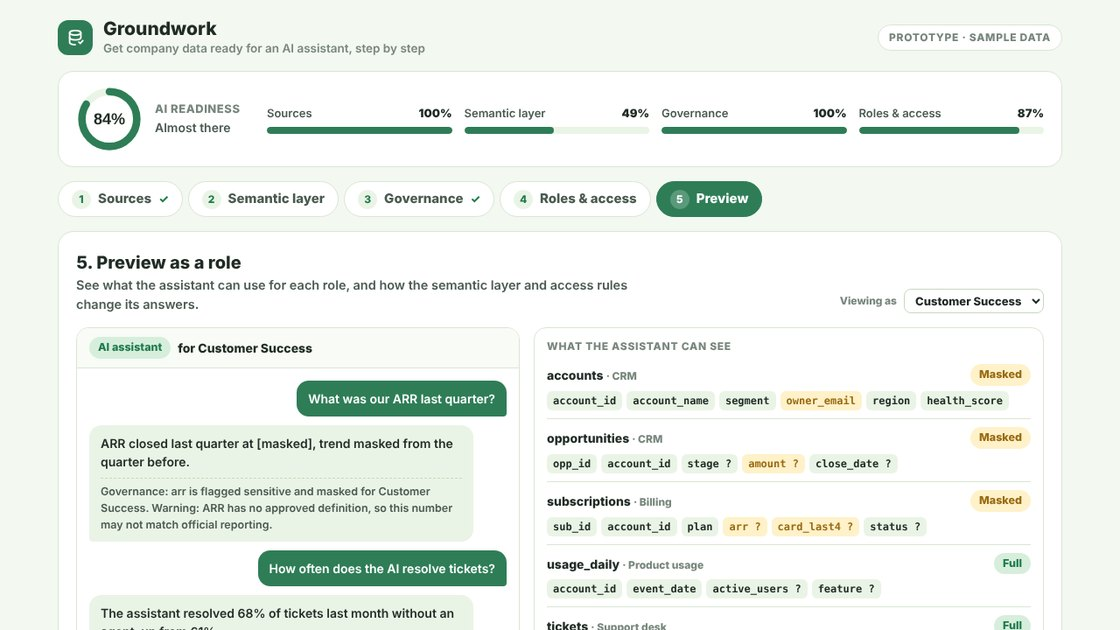
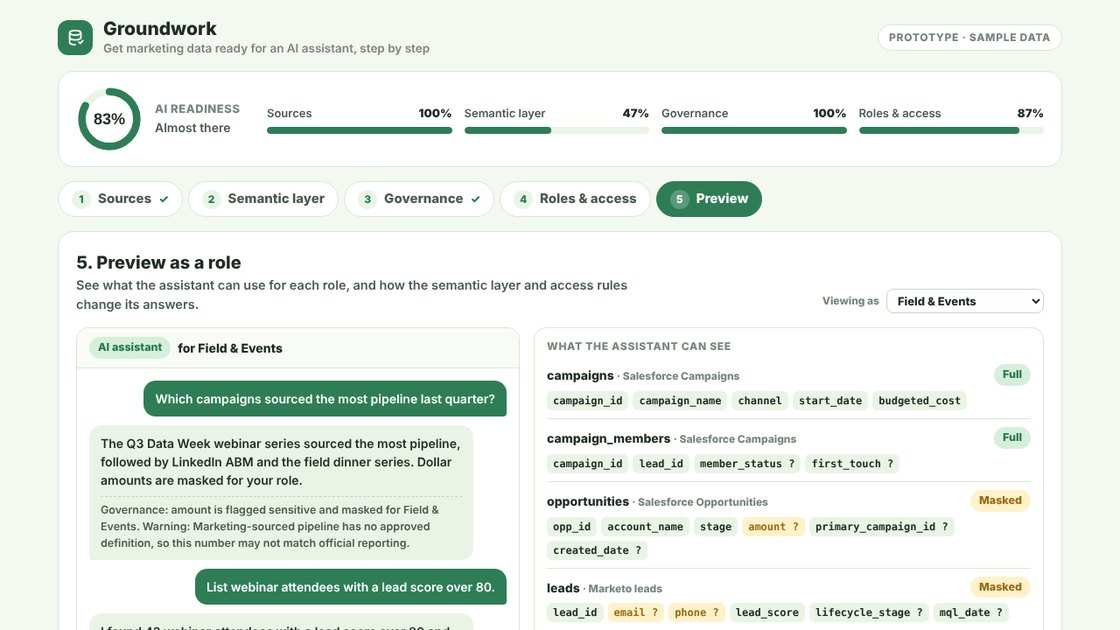
Groundwork: use marketing data for the example
Sample sources are now Salesforce campaigns and opportunities, Marketo
leads and activity, ad spend, web, events, and the marketing budget, with
marketing roles, metrics, and preview questions.

Claude-Session: https://claude.ai/code/session_012KZoca3tAZxyi3oCaJbwMw

diff --git a/data-readiness-prototype.html b/data-readiness-prototype.html
@@ -4,7 +4,7 @@
 <meta charset="utf-8">
 <meta name="viewport" content="width=device-width, initial-scale=1">
 <title>Groundwork | AI Data Readiness Prototype</title>
-<meta name="description" content="Prototype: get company data ready for an AI assistant. Prioritize sources, build a semantic layer, flag sensitive data, and set role-based access.">
+<meta name="description" content="Prototype: get marketing data ready for an AI assistant. Prioritize sources, build a semantic layer, flag sensitive data, and set role-based access.">
 <link rel="stylesheet" href="https://fonts.googleapis.com/css2?family=Nunito:wght@500;600;700;800&display=swap">
 <style>
 :root{
@@ -185,7 +185,7 @@ select.inline{border:1px solid var(--line-2);border-radius:8px;padding:4px 8px;b
   <header class="top">
     <div class="brand">
       <div class="logo" aria-hidden="true"><svg viewBox="0 0 24 24" fill="none" stroke="#fff" stroke-width="2" stroke-linecap="round" stroke-linejoin="round"><ellipse cx="12" cy="6" rx="7" ry="2.8"/><path d="M5 6v6c0 1.5 3.1 2.8 7 2.8s7-1.3 7-2.8V6"/><path d="M5 12v6c0 1.5 3.1 2.8 7 2.8"/><path d="M16.5 17.5l1.8 1.8 3.2-3.6"/></svg></div>
-      <div><h1>Groundwork</h1><p>Get company data ready for an AI assistant, step by step</p></div>
+      <div><h1>Groundwork</h1><p>Get marketing data ready for an AI assistant, step by step</p></div>
     </div>
     <span class="sample">Prototype · sample data</span>
   </header>
@@ -228,13 +228,13 @@ select.inline{border:1px solid var(--line-2);border-radius:8px;padding:4px 8px;b
   <!-- 3. Governance -->
   <section class="panel" id="p-gov" role="tabpanel" hidden>
     <div class="ph">
-      <div><h2>3. Flag sensitive data</h2><p>A scan suggests columns that hold personal, financial, or HR data. Confirm each flag. Sensitive columns are masked or hidden by role in the next step.</p></div>
+      <div><h2>3. Flag sensitive data</h2><p>A scan suggests columns that hold personal data, spend, or contract terms. Confirm each flag. Sensitive columns are masked or hidden by role in the next step.</p></div>
       <div class="actions"><button class="btn primary" id="acceptFlags">Accept all suggestions</button></div>
     </div>
     <div class="policy">
-      <div class="pc"><h4><span class="pill p-red">PII</span>Personal data</h4><p>Names, emails, phone numbers. Masked for everyone outside the owning team.</p></div>
-      <div class="pc"><h4><span class="pill p-amber">Financial</span>Deal and billing data</h4><p>Contract values and payment details. Visible to Sales, Finance, and leadership.</p></div>
-      <div class="pc"><h4><span class="pill p-lav">Confidential</span>HR and internal</h4><p>Compensation and performance data. Hidden from the AI layer by default.</p></div>
+      <div class="pc"><h4><span class="pill p-red">PII</span>Personal data</h4><p>Lead emails, phone numbers, and IP addresses. Masked outside Marketing Ops and leadership.</p></div>
+      <div class="pc"><h4><span class="pill p-amber">Financial</span>Spend and deal values</h4><p>Ad spend, campaign budgets, and opportunity amounts. Masked for roles that don't own them.</p></div>
+      <div class="pc"><h4><span class="pill p-lav">Confidential</span>Contracts</h4><p>Vendor and agency contract terms. Hidden from the AI layer by default.</p></div>
     </div>
     <div class="tw"><table><thead><tr><th>Column</th><th>Table</th><th>Scan suggestion</th><th>Reason</th><th>Decision</th></tr></thead><tbody id="govBody"></tbody></table></div>
   </section>
@@ -271,107 +271,106 @@ select.inline{border:1px solid var(--line-2);border-radius:8px;padding:4px 8px;b
 <script>
 /* ---------------- sample data ---------------- */
 const SOURCES = [
-  {id:'crm',      name:'CRM',                 sys:'Accounts, contacts, opportunities', teams:5, quality:4, fresh:5, inc:null},
-  {id:'billing',  name:'Billing',             sys:'Subscriptions, invoices',           teams:4, quality:5, fresh:4, inc:null},
-  {id:'usage',    name:'Product usage',       sys:'Daily feature events',              teams:4, quality:4, fresh:5, inc:null},
-  {id:'support',  name:'Support desk',        sys:'Tickets, CSAT',                     teams:3, quality:4, fresh:5, inc:null},
-  {id:'marketing',name:'Marketing automation',sys:'Campaigns, leads',                  teams:3, quality:3, fresh:4, inc:null},
-  {id:'web',      name:'Web analytics',       sys:'Sessions, sign-ups',                teams:2, quality:3, fresh:5, inc:null},
-  {id:'finance',  name:'Finance ledger',      sys:'GL entries, cost centers',          teams:1, quality:5, fresh:2, inc:null},
-  {id:'hr',       name:'HR system',           sys:'Employees, compensation',           teams:1, quality:4, fresh:2, inc:null}
+  {id:'campaigns', name:'Salesforce Campaigns',     sys:'Campaigns, campaign members',        teams:5, quality:4, fresh:5, inc:null},
+  {id:'opps',      name:'Salesforce Opportunities', sys:'Opportunities, campaign influence',  teams:5, quality:5, fresh:5, inc:null},
+  {id:'mkto_leads',name:'Marketo leads',            sys:'Leads, scoring, lifecycle stage',    teams:4, quality:3, fresh:5, inc:null},
+  {id:'mkto_act',  name:'Marketo activity',         sys:'Email, form, and web activity',      teams:3, quality:4, fresh:5, inc:null},
+  {id:'ads',       name:'Paid ads',                 sys:'LinkedIn and Google Ads spend',      teams:4, quality:4, fresh:4, inc:null},
+  {id:'web',       name:'Web analytics',            sys:'Sessions, UTM parameters',           teams:3, quality:3, fresh:5, inc:null},
+  {id:'events',    name:'Events and webinars',      sys:'Registrations, attendance',          teams:2, quality:3, fresh:3, inc:null},
+  {id:'budget',    name:'Marketing budget',         sys:'Plan vs. actual, vendor contracts',  teams:1, quality:5, fresh:2, inc:null}
 ];
 
 const TABLES = [
-  {id:'accounts', src:'crm', name:'accounts', cols:[
-    ['account_id','string','Unique ID for a customer account.',null],
-    ['account_name','string','Company name of the customer account.',null],
-    ['segment','string','Customer size tier: SMB, Mid-Market, or Enterprise.',null],
-    ['owner_email','string','Email of the account owner (sales rep).','pii'],
-    ['region','string','Sales region that owns the account: AMER, EMEA, or APAC.',null],
-    ['health_score','number','0-100 score combining usage, support, and billing signals.',null]
-  ], pre:[0,1,2]},
-  {id:'opportunities', src:'crm', name:'opportunities', cols:[
+  {id:'campaigns', src:'campaigns', name:'campaigns', cols:[
+    ['campaign_id','string','Unique ID for a Salesforce campaign.',null],
+    ['campaign_name','string','Campaign name, such as "Q3 Data Week Webinar".',null],
+    ['channel','string','Marketing channel: Paid Social, Webinar, Email, Events, or Content.',null],
+    ['start_date','date','Date the campaign went live.',null],
+    ['budgeted_cost','number','Planned spend for the campaign in USD.','fin']
+  ], pre:[0,1]},
+  {id:'campaign_members', src:'campaigns', name:'campaign_members', cols:[
+    ['campaign_id','string','Campaign the person responded to.',null],
+    ['lead_id','string','Lead or contact who responded.',null],
+    ['member_status','string','Response status, such as Registered, Attended, or Clicked.',null],
+    ['first_touch','boolean','True when this campaign was the person\'s first marketing touch.',null]
+  ], pre:[0,1]},
+  {id:'opportunities', src:'opps', name:'opportunities', cols:[
     ['opp_id','string','Unique ID for a sales opportunity.',null],
-    ['account_id','string','Account the opportunity belongs to.',null],
-    ['stage','string','Current sales stage, from Discovery to Closed Won or Lost.',null],
+    ['account_name','string','Company the opportunity is with.',null],
+    ['stage','string','Sales stage, from Discovery to Closed Won or Lost.',null],
     ['amount','number','Expected annual contract value in USD.','fin'],
-    ['close_date','date','Expected or actual close date.',null]
-  ], pre:[0,1]},
-  {id:'subscriptions', src:'billing', name:'subscriptions', cols:[
-    ['sub_id','string','Unique ID for a subscription.',null],
-    ['account_id','string','Account that owns the subscription.',null],
-    ['plan','string','Plan tier: Starter, Team, or Business.',null],
-    ['arr','number','Annual recurring revenue for the subscription in USD.','fin'],
-    ['card_last4','string','Last four digits of the payment card on file.','fin'],
-    ['status','string','Trialing, active, past due, or canceled.',null]
+    ['primary_campaign_id','string','Campaign credited with sourcing the opportunity.',null],
+    ['created_date','date','Date the opportunity was created.',null]
   ], pre:[0,1,2]},
-  {id:'usage_daily', src:'usage', name:'usage_daily', cols:[
-    ['account_id','string','Account the activity belongs to.',null],
-    ['event_date','date','Day the activity happened.',null],
-    ['active_users','number','Distinct users active that day.',null],
-    ['feature','string','Product feature used, such as Reports or Automations.',null]
-  ], pre:[0,1]},
-  {id:'tickets', src:'support', name:'tickets', cols:[
-    ['ticket_id','string','Unique ID for a support ticket.',null],
-    ['account_id','string','Account that opened the ticket.',null],
-    ['requester_email','string','Email of the person who opened the ticket.','pii'],
-    ['category','string','Issue type, such as Billing, Login, or Integrations.',null],
-    ['resolved_by_ai','boolean','True when the AI assistant resolved the ticket without an agent.',null],
-    ['csat','number','Customer satisfaction rating from 1 to 5.',null]
-  ], pre:[0,1]},
-  {id:'leads', src:'marketing', name:'leads', cols:[
-    ['lead_id','string','Unique ID for a marketing lead.',null],
+  {id:'leads', src:'mkto_leads', name:'leads', cols:[
+    ['lead_id','string','Unique ID for a Marketo lead.',null],
     ['email','string','Lead email address.','pii'],
-    ['campaign','string','Campaign that sourced the lead.',null],
+    ['phone','string','Lead phone number.','pii'],
+    ['lead_score','number','0-100 Marketo score from fit and engagement.',null],
+    ['lifecycle_stage','string','Funnel stage: Inquiry, MQL, SQL, or Opportunity.',null],
     ['mql_date','date','Date the lead became marketing qualified.',null]
+  ], pre:[0,3]},
+  {id:'activities', src:'mkto_act', name:'activities', cols:[
+    ['lead_id','string','Lead who did the activity.',null],
+    ['activity_type','string','Activity, such as Email Open, Form Fill, or Web Visit.',null],
+    ['asset_name','string','Email, form, or page involved.',null],
+    ['activity_date','date','Date and time of the activity.',null],
+    ['ip_address','string','IP address recorded for the activity.','pii']
   ], pre:[0]},
+  {id:'ad_spend', src:'ads', name:'ad_spend', cols:[
+    ['campaign_id','string','Salesforce campaign the ad spend rolls up to.',null],
+    ['platform','string','Ad platform: LinkedIn Ads or Google Ads.',null],
+    ['spend','number','Daily ad spend in USD.','fin'],
+    ['clicks','number','Ad clicks that day.',null]
+  ], pre:[0,1]},
   {id:'sessions', src:'web', name:'sessions', cols:[
     ['session_id','string','Unique ID for a website visit.',null],
-    ['landing_page','string','First page viewed in the visit.',null],
-    ['signed_up','boolean','True when the visit ended in a trial sign-up.',null]
+    ['utm_campaign','string','Campaign tag from the visit URL.',null],
+    ['converted','boolean','True when the visit ended in a form fill.',null]
   ], pre:[0]},
-  {id:'gl_entries', src:'finance', name:'gl_entries', cols:[
-    ['entry_id','string','Unique ID for a ledger entry.',null],
-    ['cost_center','string','Department cost center charged.',null],
-    ['amount','number','Entry amount in USD.','fin']
+  {id:'registrations', src:'events', name:'registrations', cols:[
+    ['event_id','string','Event or webinar the person registered for.',null],
+    ['attendee_email','string','Registrant email address.','pii'],
+    ['attended','boolean','True when the registrant attended.',null]
   ], pre:[0]},
-  {id:'employees', src:'hr', name:'employees', cols:[
-    ['employee_id','string','Unique ID for an employee.',null],
-    ['department','string','Department the employee belongs to.',null],
-    ['salary','number','Annual base salary in USD.','conf'],
-    ['manager_id','string','Employee ID of the manager.',null]
+  {id:'budget_lines', src:'budget', name:'budget_lines', cols:[
+    ['line_id','string','Unique ID for a budget line.',null],
+    ['planned_spend','number','Planned quarterly spend in USD.','fin'],
+    ['vendor_terms','string','Contract terms negotiated with the vendor.','conf']
   ], pre:[0]}
 ];
 TABLES.forEach(t => t.cols = t.cols.map((c,i) => ({name:c[0], type:c[1], suggest:c[2], sensSug:c[3],
   desc: t.pre.includes(i) ? c[2] : '', status: t.pre.includes(i) ? 'approved' : 'missing', sens: 'pending'})));
 
 const METRICS = [
-  {id:'arr', name:'ARR', def:'Sum of arr on active subscriptions, as of the last day of the period.', formula:'SUM(subscriptions.arr) WHERE status = active', status:'draft'},
-  {id:'nrr', name:'Net revenue retention', def:'ARR today from accounts that were customers 12 months ago, divided by their ARR then.', formula:'ARR(cohort, today) / ARR(cohort, 12 months ago)', status:'draft'},
-  {id:'t2p', name:'Trial-to-paid rate', def:'Share of trials started in the period that converted to a paid plan within 14 days.', formula:'paid_within_14d / trials_started', status:'approved'},
-  {id:'deflect', name:'AI resolution rate', def:'Share of support tickets resolved by the AI assistant without an agent.', formula:'AVG(tickets.resolved_by_ai)', status:'draft'}
+  {id:'pipe', name:'Marketing-sourced pipeline', def:'Total amount of open and won opportunities whose primary campaign is a marketing campaign, created in the period.', formula:'SUM(opportunities.amount) WHERE primary_campaign_id IS NOT NULL', status:'draft'},
+  {id:'mql2sql', name:'MQL-to-SQL rate', def:'Share of leads that became MQLs in the period and reached SQL within 30 days.', formula:'sql_within_30d / mqls', status:'draft'},
+  {id:'cpmql', name:'Cost per MQL', def:'Ad and program spend in the period divided by new MQLs from those campaigns.', formula:'SUM(ad_spend.spend) / COUNT(mqls)', status:'approved'},
+  {id:'roi', name:'Pipeline ROI', def:'Marketing-sourced pipeline divided by marketing spend for the same campaigns.', formula:'sourced_pipeline / SUM(spend)', status:'draft'}
 ];
 
 const DATASETS = [
-  {id:'crm', name:'CRM'}, {id:'billing', name:'Billing'}, {id:'usage', name:'Product usage'},
-  {id:'support', name:'Support desk'}, {id:'marketing', name:'Marketing'}, {id:'finance', name:'Finance'}
+  {id:'campaigns', name:'Campaigns'}, {id:'opps', name:'Opportunities'}, {id:'marketo', name:'Marketo'},
+  {id:'ads', name:'Ad spend'}, {id:'web', name:'Web & events'}, {id:'budget', name:'Budget'}
 ];
+const SRC_DATASET = {campaigns:'campaigns', opps:'opps', mkto_leads:'marketo', mkto_act:'marketo', ads:'ads', web:'web', events:'web', budget:'budget'};
 const ROLES = [
-  {id:'sales',  name:'Sales',            dept:['Sales'],            color:'#FFEFB0', access:{crm:'full',billing:'masked',usage:'masked',support:'none',marketing:'masked',finance:'none'}},
-  {id:'mkt',    name:'Marketing',        dept:['Marketing'],        color:'#D3E6FB', access:{crm:'masked',billing:'none',usage:'masked',support:'none',marketing:'full',finance:'none'}},
-  {id:'cs',     name:'Customer Success', dept:['Customer Success'], color:'#CDEBD3', access:{crm:'masked',billing:'masked',usage:'full',support:'full',marketing:'none',finance:'none'}},
-  {id:'support',name:'Support',          dept:['Support'],          color:'#FBDAD3', access:{crm:'masked',billing:'none',usage:'masked',support:'full',marketing:'none',finance:'none'}},
-  {id:'fin',    name:'Finance',          dept:['Finance'],          color:'#E5DCF8', access:{crm:'masked',billing:'full',usage:'none',support:'none',marketing:'none',finance:'full'}},
-  {id:'lead',   name:'Leadership',       dept:['Executive'],        color:'#F2E3C9', access:{crm:'full',billing:'full',usage:'full',support:'masked',marketing:'full',finance:'full'}}
+  {id:'dg',     name:'Demand Gen',       dept:['Demand Gen'],        color:'#FFEFB0', access:{campaigns:'full',opps:'full',marketo:'full',ads:'full',web:'full',budget:'masked'}},
+  {id:'mops',   name:'Marketing Ops',    dept:['Marketing Ops'],     color:'#D3E6FB', access:{campaigns:'full',opps:'full',marketo:'full',ads:'full',web:'full',budget:'masked'}},
+  {id:'content',name:'Content & Brand',  dept:['Content'],           color:'#CDEBD3', access:{campaigns:'full',opps:'none',marketo:'masked',ads:'masked',web:'full',budget:'none'}},
+  {id:'field',  name:'Field & Events',   dept:['Field Marketing'],   color:'#FBDAD3', access:{campaigns:'full',opps:'masked',marketo:'masked',ads:'none',web:'full',budget:'masked'}},
+  {id:'sdr',    name:'Sales Development',dept:['Sales Development'], color:'#E5DCF8', access:{campaigns:'masked',opps:'full',marketo:'masked',ads:'none',web:'masked',budget:'none'}},
+  {id:'lead',   name:'Marketing Leadership', dept:['Executive'],     color:'#F2E3C9', access:{campaigns:'full',opps:'full',marketo:'full',ads:'full',web:'full',budget:'full'}}
 ];
 const USERS = [
-  ['Maya Torres','Sales','Account Executive','sales'],['Jordan Lee','Sales','Sales Manager',null],['Priya Nair','Sales','SDR',null],
-  ['Sam Okafor','Marketing','Demand Gen Manager','mkt'],['Lena Fischer','Marketing','Marketing Ops',null],
-  ['Chris Park','Customer Success','CSM',null],['Ana Ruiz','Customer Success','CS Director',null],
-  ['Tom Becker','Support','Support Lead',null],['Hana Sato','Support','Support Specialist',null],
-  ['Noah Kim','Finance','FP&A Analyst',null],['Grace Liu','Finance','Controller','fin'],
-  ['Ravi Shah','Executive','CEO',null],['Elena Rossi','Executive','CIO',null],
-  ['Ben Carter','Operations','RevOps Analyst',null],['Ivy Chen','Operations','BizOps Lead',null]
+  ['Maya Torres','Demand Gen','Demand Gen Manager','dg'],['Jordan Lee','Demand Gen','Paid Media Specialist',null],['Priya Nair','Demand Gen','ABM Manager',null],
+  ['Sam Okafor','Marketing Ops','Marketing Ops Manager','mops'],['Lena Fischer','Marketing Ops','Marketo Admin',null],
+  ['Chris Park','Content','Content Marketing Lead',null],['Ana Ruiz','Content','Brand Designer',null],
+  ['Tom Becker','Field Marketing','Field Marketing Manager',null],['Hana Sato','Field Marketing','Events Coordinator',null],
+  ['Noah Kim','Sales Development','SDR',null],['Grace Liu','Sales Development','SDR Manager','sdr'],
+  ['Ravi Shah','Executive','CMO',null],['Elena Rossi','Executive','VP Marketing',null],
+  ['Ben Carter','Partner Marketing','Partner Marketing Manager',null],['Ivy Chen','Product Marketing','Product Marketing Manager',null]
 ].map(u => ({name:u[0], dept:u[1], title:u[2], role:u[3]}));
 
 /* ---------------- helpers ---------------- */
@@ -489,12 +488,12 @@ $('#approveAll').onclick = () => { const t=TABLES.find(x=>x.id===selTable); if(!
 function renderGov(){
   const rows = aiTables().flatMap(t => t.cols.filter(c=>c.sensSug).map(c => ({t, c})));
   if (!rows.length){ $('#govBody').innerHTML = '<tr><td colspan="5" class="minor">Include sources in step 1 to scan their columns.</td></tr>'; return; }
-  const why = {pii:'Looks like an email or personal identifier', fin:'Holds money values or payment details', conf:'Compensation data'};
+  const why = {pii:'Looks like an email, phone, or IP address', fin:'Holds spend or deal amounts', conf:'Contract terms'};
   $('#govBody').innerHTML = rows.map(({t,c},i) => {
     const [lbl,cls] = sensLabel[c.sensSug];
     const dec = c.sens==='pending' ? `<span class="actions"><button class="btn sm primary" data-acc="${i}">Accept</button><button class="btn sm" data-dis="${i}">Not sensitive</button></span>`
       : c.sens==='none' ? '<span class="pill p-gray">Not sensitive</span>' : `<span class="pill ${cls}">Flagged ${lbl}</span>`;
-    return `<tr><td><code>${c.name}</code></td><td>${t.name}</td><td><span class="pill ${cls}">${lbl}</span></td><td class="sub" style="font-size:13px">${why[c.sensSug]}</td><td>${dec}</td></tr>`;
+    return `<tr><td><code>${c.name}</code></td><td>${t.name}</td><td><span class="pill ${cls}">${lbl}</span></td><td style="font-size:13px;color:var(--ink-3)">${why[c.sensSug]}</td><td>${dec}</td></tr>`;
   }).join('');
   document.querySelectorAll('#govBody [data-acc]').forEach(b => b.onclick = () => { const c=rows[b.dataset.acc].c; c.sens=c.sensSug; renderGov(); renderSummary(); });
   document.querySelectorAll('#govBody [data-dis]').forEach(b => b.onclick = () => { rows[b.dataset.dis].c.sens='none'; renderGov(); renderSummary(); });
@@ -526,18 +525,21 @@ $('#autoGroup').onclick = () => {
 
 /* ---------------- 5. preview ---------------- */
 const QUESTIONS = [
-  {q:'What was our ARR last quarter?', needs:'billing', metric:'arr', col:'arr',
-   ans:'ARR closed last quarter at $48.2M, up 6% from the quarter before.'},
-  {q:'Which accounts have rising support tickets?', needs:'support', metric:null, col:null,
-   ans:'Three accounts doubled their ticket volume this month: Brightline Health, Kestrel Logistics, and Orchid Retail. Most tickets are about Integrations.'},
-  {q:'How often does the AI resolve tickets?', needs:'support', metric:'deflect', col:'resolved_by_ai',
-   ans:'The assistant resolved 68% of tickets last month without an agent, up from 61%.'},
-  {q:'Who owns the Brightline Health account?', needs:'crm', metric:null, col:'owner_email',
-   ans:'Brightline Health is owned by Maya Torres in AMER.'},
-  {q:'What is the average salary in Sales?', needs:'hr', metric:null, col:'salary', ans:''}
+  {q:'Which campaigns sourced the most pipeline last quarter?', src:'opps', metric:'pipe', col:'amount',
+   ans:'The Q3 Data Week webinar series sourced the most pipeline at $2.4M, followed by LinkedIn ABM at $1.8M and the field dinner series at $1.1M.',
+   masked:'The Q3 Data Week webinar series sourced the most pipeline, followed by LinkedIn ABM and the field dinner series. Dollar amounts are masked for your role.'},
+  {q:'What is our MQL-to-SQL rate this month?', src:'mkto_leads', metric:'mql2sql', col:null,
+   ans:'MQL-to-SQL conversion is 24% this month, up from 21% last month. Webinar leads convert best at 31%.'},
+  {q:'What is our cost per MQL on LinkedIn?', src:'ads', metric:'cpmql', col:'spend',
+   ans:'Cost per MQL on LinkedIn is $182 this quarter, down 9% from last quarter.',
+   masked:'Cost per MQL on LinkedIn fell 9% from last quarter. Spend figures are masked for your role.'},
+  {q:'List webinar attendees with a lead score over 80.', src:'mkto_leads', metric:null, col:'email',
+   ans:'I found 42 webinar attendees with a lead score over 80 and no open opportunity. Here they are with emails, ready for SDR follow-up.',
+   masked:'I found 42 webinar attendees with a lead score over 80 and no open opportunity. Their emails and phone numbers are masked for your role.'},
+  {q:'What are the terms of our ad agency contract?', src:'budget', conf:true}
 ];
-let pvRole = 'cs', convo = [];
-function accessFor(role, src){ const map={crm:'crm',billing:'billing',usage:'usage',support:'support',marketing:'marketing',web:'marketing',finance:'finance',hr:null}; const d=map[src]; return d ? role.access[d] : 'none'; }
+let pvRole = 'dg', convo = [];
+function accessFor(role, src){ const d = SRC_DATASET[src]; return d ? role.access[d] : 'none'; }
 function renderPreview(){
   $('#pvRole').innerHTML = ROLES.map(r=>`<option value="${r.id}" ${r.id===pvRole?'selected':''}>${r.name}</option>`).join('');
   const role = roleOf(pvRole);
@@ -559,25 +561,23 @@ function renderPreview(){
   renderMsgs();
 }
 function ask(i){
-  const q = QUESTIONS[i], role = roleOf(pvRole);
+  const q = QUESTIONS[i], role = roleOf(pvRole), srcName = SOURCES.find(s=>s.id===q.src).name;
   let a, note = '';
-  const srcInc = q.needs==='hr' ? inc('hr') : inc(q.needs==='crm'?'crm':q.needs);
-  const acc = accessFor(role, q.needs);
-  if (q.needs==='hr'){
-    a = 'I can\'t answer that. Compensation data is confidential and isn\'t available to the assistant.';
-    note = 'Governance: HR data stays out of the AI layer.';
-  } else if (!srcInc){
-    a = 'I don\'t have that data yet. The ' + SOURCES.find(s=>s.id===q.needs).name + ' source isn\'t in the AI layer.';
+  const acc = accessFor(role, q.src);
+  if (q.conf){
+    a = 'I can\'t share that. Vendor contract terms are confidential and aren\'t available to the assistant.';
+    note = 'Governance: confidential columns stay out of the AI layer.';
+  } else if (!inc(q.src)){
+    a = 'I don\'t have that data yet. ' + srcName + ' isn\'t in the AI layer.';
     note = 'Include it in step 1 to answer this.';
   } else if (acc==='none'){
-    a = 'Your role doesn\'t have access to ' + SOURCES.find(s=>s.id===q.needs).name + ' data, so I can\'t answer this.';
+    a = 'Your role doesn\'t have access to ' + srcName + ' data, so I can\'t answer this.';
     note = 'Access: ' + role.name + ' has no access to this dataset. Change it in step 4.';
   } else {
     a = q.ans;
     const col = q.col && TABLES.flatMap(t=>t.cols).find(c=>c.name===q.col);
     if (col && acc==='masked' && col.sens!=='pending' && col.sens!=='none'){
-      if (q.col==='owner_email') a = 'Brightline Health is owned by a rep in AMER. Their contact details are masked for your role.';
-      else a = a.replace(/\$[\d.]+M/,'[masked]').replace(/up \d+%/,'trend masked');
+      a = q.masked;
       note = 'Governance: ' + q.col + ' is flagged sensitive and masked for ' + role.name + '.';
     }
     if (q.metric){

diff --git a/index.html b/index.html
@@ -226,11 +226,11 @@ footer p{color:var(--ink-2);max-width:46ch}
         </div>
       </article>
       <article class="tile">
-        <a class="shot" href="https://d8chang.github.io/ai-prototypes/data-readiness-prototype.html" target="_blank" rel="noopener"><img src="img/data.jpg" alt="Groundwork prototype: an AI readiness score, progress for each step, and a preview of what the assistant can see for a Customer Success role."></a>
+        <a class="shot" href="https://d8chang.github.io/ai-prototypes/data-readiness-prototype.html" target="_blank" rel="noopener"><img src="img/data.jpg" alt="Groundwork prototype: an AI readiness score, progress for each step, and a preview of what the assistant can see for a Field &amp; Events marketing role."></a>
         <div class="body">
           <span class="eyebrow">AI data readiness</span>
           <h3>Groundwork</h3>
-          <p class="what">Gets company data ready for an AI assistant: prioritize sources, describe columns and metrics, flag sensitive data, and set access by role. Then preview what the assistant can see and answer.</p>
+          <p class="what">Gets marketing data ready for an AI assistant: prioritize sources like Salesforce campaigns, opportunities, and Marketo, define metrics like sourced pipeline, flag sensitive data, and set access by role.</p>
           <p class="win">Mirrors the data prep behind a company-wide Claude rollout.</p>
           <div class="foot">
             <a class="open" href="https://d8chang.github.io/ai-prototypes/data-readiness-prototype.html" target="_blank" rel="noopener">Open prototype ↗</a>
